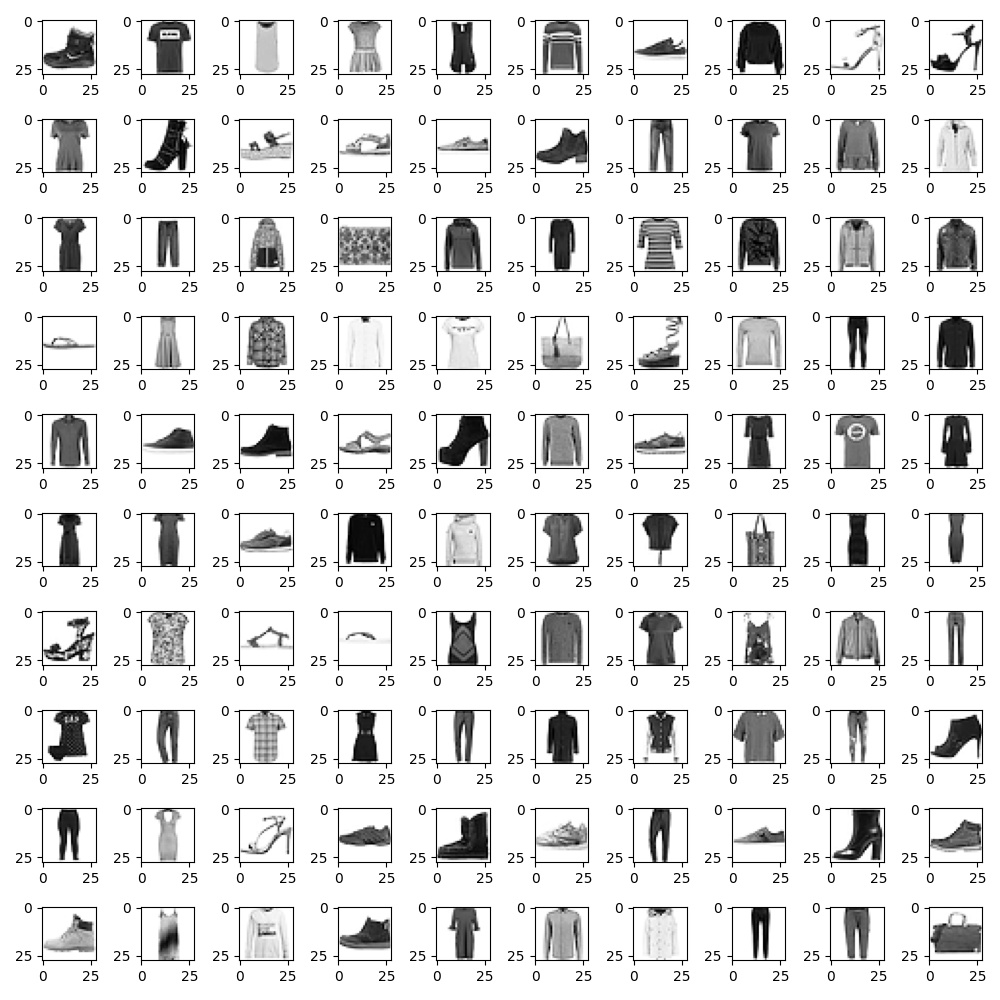
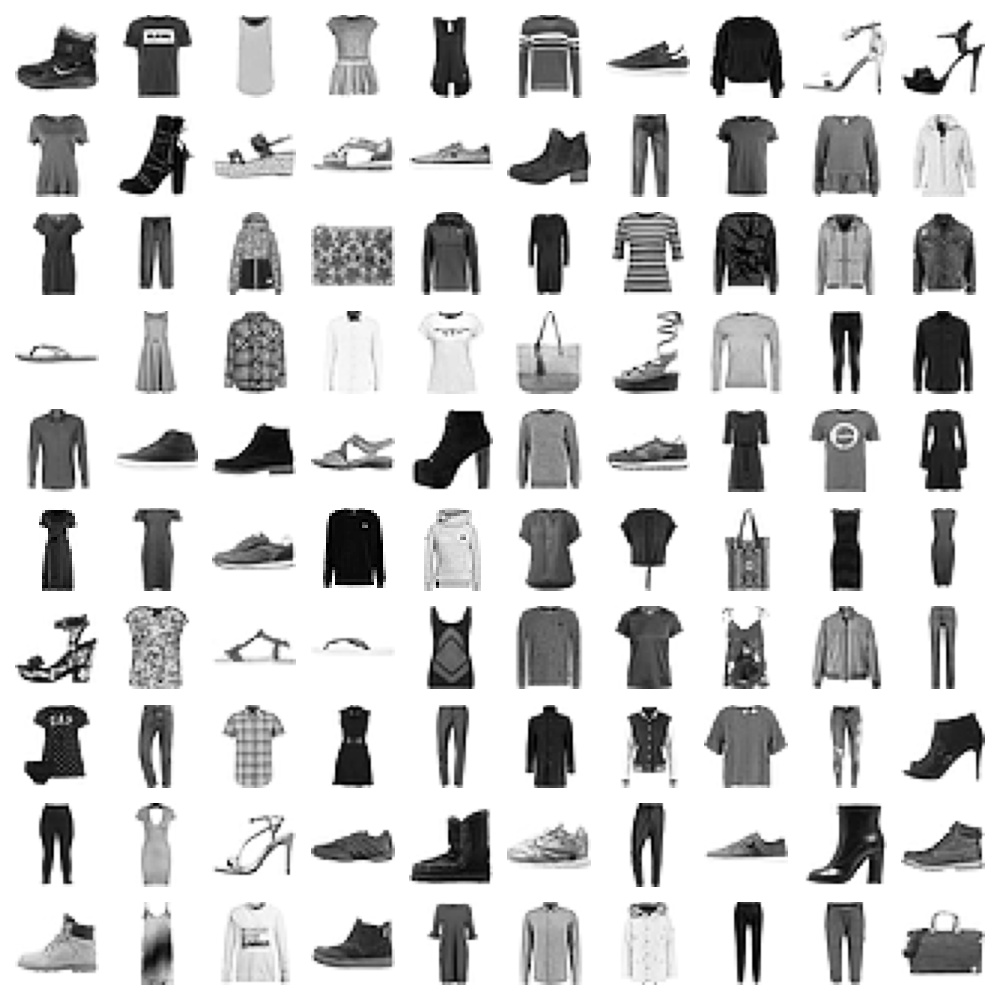
2021-12-14_15:04:42

diff --git a/cnns/mnist_fashion_cnn.py b/cnns/mnist_fashion_cnn.py
@@ -6,6 +6,7 @@ from tensorflow.python.keras.callbacks import TensorBoard
 from tensorflow.python.keras.datasets import fashion_mnist
 from tensorflow.python.keras.layers import Conv1D, MaxPool1D, Dropout, GlobalAveragePooling1D, Dense
 from tensorflow.python.keras.utils.np_utils import to_categorical
+from tensorflow.python.keras.utils.vis_utils import plot_model
 
 # Load train and test data
 (train_images, train_labels), (test_images, test_labels) = fashion_mnist.load_data()
@@ -15,6 +16,7 @@ fig, ax = plt.subplots(nrows=10, ncols=10, figsize=(10, 10))
 axs = ax.ravel()
 for i in range(100):
     axs[i].imshow(train_images[i], cmap='Greys')
+    axs[i].axis('off')
 
 plt.tight_layout()
 plt.savefig('../data/mnist_fashion_100.jpg')
@@ -29,54 +31,69 @@ train_labels = to_categorical(train_labels)
 test_labels = to_categorical(test_labels)
 
 # Extract number of classes from data dimensions
-classes = np.shape(train_labels)[1]
+nclasses = np.shape(train_labels)[1]
 
 # Define hyperparameters in dictionary for flexible use
-config = {'conv_kernel_size': 3,
+config = {'conv_layers': 4,
+          'conv_filters': 64,
+          'conv_kernel_size': 3,
           'conv_initializer': 'he_uniform',
           'conv_padding': 'same',
           'conv_activation_function': 'relu',
           'conv_maxpool_stride': 2,
           'conv_maxpool_size': 2,
           'conv_dropout_rate': 0.1,
+          'fc_layers': 2,
+          'fc_neurons': 16,
           'fc_activation_function': 'relu',
           'fc_initializer': 'he_uniform',
-          'fc_dropout_rate': 0.1}
+          'fc_dropout_rate': 0.1,
+          'optimizer': 'adam',
+          'loss': 'categorical_crossentropy',
+          'epochs': 2}
 
 # Define model architecture
 model = Sequential()
 
 # First convolutional and pooling layer
-model.add(Conv1D(input_shape=(28, 28), filters=64, kernel_size=config['conv_kernel_size'], padding=config['conv_padding'], activation=config['conv_activation_function'], kernel_initializer=config['conv_initializer']))
+model.add(Conv1D(input_shape=(28, 28), filters=config['conv_filters'], kernel_size=config['conv_kernel_size'], padding=config['conv_padding'], activation=config['conv_activation_function'], kernel_initializer=config['conv_initializer']))
 model.add(MaxPool1D(strides=config['conv_maxpool_stride'], pool_size=config['conv_maxpool_size']))
 
 # Convolutional and dropout layers
-for i in range(4):
-    model.add(Conv1D(filters=64, kernel_size=config['conv_kernel_size'], padding=config['conv_padding'], activation=config['conv_activation_function'], kernel_initializer=config['conv_initializer']))
+for i in range(config['conv_layers']):
+    model.add(Conv1D(filters=config['conv_filters'], kernel_size=config['conv_kernel_size'], padding=config['conv_padding'], activation=config['conv_activation_function'], kernel_initializer=config['conv_initializer']))
     model.add(Dropout(config['conv_dropout_rate']))
 
 # Global average pooling reduces number of dimensions
 model.add(GlobalAveragePooling1D())
 
 # Dense and dropout layers
-for i in range(2):
-    model.add(Dense(units=16, activation=config['fc_activation_function'], kernel_initializer=config['fc_initializer']))
+for i in range(config['fc_layers']):
+    model.add(Dense(units=config['fc_neurons'], activation=config['fc_activation_function'], kernel_initializer=config['fc_initializer']))
     model.add(Dropout(config['fc_dropout_rate']))
 
 # Last dense layer has width of label (number of classes)
-model.add(Dense(units=classes, activation='softmax', kernel_initializer=config['fc_initializer']))
+model.add(Dense(units=nclasses, activation='softmax', kernel_initializer=config['fc_initializer']))
 
 # Compile model
-model.compile(optimizer='adam', loss='categorical_crossentropy', metrics=['accuracy'])
+model.compile(optimizer=config['optimizer'], loss=config['loss'], metrics=['accuracy'])
 
 # Print model architecture
 model.summary()
+
+# Visualize model
+plot_model(model=model,
+           to_file='../data/mnist_cnn.jpg',
+           show_shapes=True,
+           show_layer_names=False,
+           expand_nested=False,
+           dpi=100)
 
 # Tensorboard callback
 tensorboard_callback = TensorBoard(log_dir='tensorboard/' + 'mnist_fashion_cnn_' + datetime.utcnow().strftime('%Y%m%d%H%M%S'))
 
 # Train model
-model.fit(x=train_images, y=train_labels, epochs=20, validation_data=(test_images, test_labels), callbacks=[tensorboard_callback])
+model.fit(x=train_images, y=train_labels, epochs=config['epochs'], validation_data=(test_images, test_labels), callbacks=[tensorboard_callback])
 
 # Evaluate model
 test_loss, test_acc = model.evaluate(test_images, test_labels)

diff --git a/cnns/mnist_digits_cnn.py b/cnns/mnist_digits_cnn.py
@@ -6,6 +6,7 @@ from tensorflow.python.keras.callbacks import TensorBoard
 from tensorflow.python.keras.datasets import mnist
 from tensorflow.python.keras.layers import Conv1D, MaxPool1D, Dropout, GlobalAveragePooling1D, Dense
 from tensorflow.python.keras.utils.np_utils import to_categorical
+from tensorflow.python.keras.utils.vis_utils import plot_model
 
 # Load train and test data
 (train_images, train_labels), (test_images, test_labels) = mnist.load_data()
@@ -15,6 +16,7 @@ fig, ax = plt.subplots(nrows=10, ncols=10, figsize=(10, 10))
 axs = ax.ravel()
 for i in range(100):
     axs[i].imshow(train_images[i], cmap='Greys')
+    axs[i].axis('off')
 
 plt.tight_layout()
 plt.savefig('../data/mnist_digits_100.jpg')
@@ -48,7 +50,7 @@ config = {'conv_layers': 4,
           'fc_dropout_rate': 0.1,
           'optimizer': 'adam',
           'loss': 'categorical_crossentropy',
-          'epochs': 20}
+          'epochs': 2}
 
 # Define model architecture
 model = Sequential()
@@ -78,6 +80,14 @@ model.compile(optimizer=config['optimizer'], loss=config['loss'], metrics=['accu
 
 # Print model architecture
 model.summary()
+
+# Visualize model
+plot_model(model=model,
+           to_file='../data/mnist_cnn.jpg',
+           show_shapes=True,
+           show_layer_names=False,
+           expand_nested=False,
+           dpi=100)
 
 # Tensorboard callback
 tensorboard_callback = TensorBoard(log_dir='tensorboard/' + 'mnist_digits_cnn_' + datetime.utcnow().strftime('%Y%m%d%H%M%S'))
